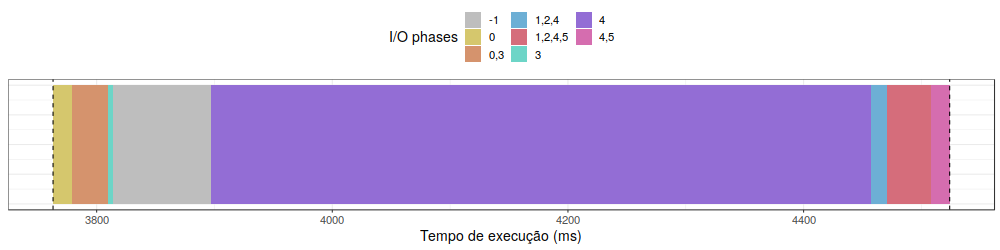
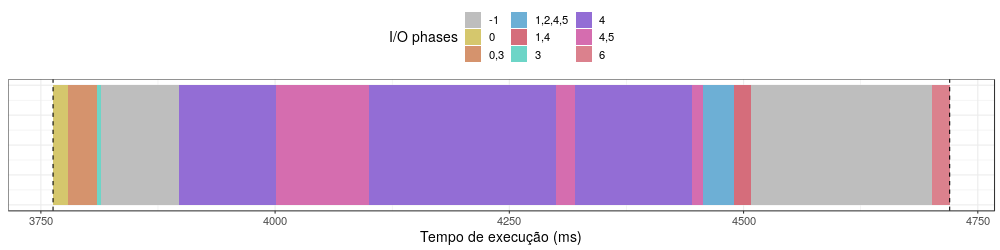
Sync; some problems in create new nodes intervals  Changes to be committed: 	modified:   R/interval_small.png 	modified:   R/saida_final.png 	modified:   R/view_intervals.org 	modified:   data/final.csv 	modified:   data/intervals.small.csv 	modified:   data/jobs.csv 	modified:   data/phases.csv 	mo

diff --git a/src/main.cpp b/src/main.cpp
@@ -64,12 +64,12 @@ void dump_file(int long new_end, vector<Node*>&v){
 	// phase and jobs sep by ,
 	// day 
 
+	char path_save[] = "../data/final.csv";
+
 	if(!first_write){
 		first_write = true;
 		last_end = new_end;
 	}
-
-	char path_save[] = "../data/final.csv";
 
 	if (v[0]->getStart() > last_end){
 		#ifdef DUMP
@@ -187,19 +187,19 @@ int main(int argc, char const *argv[]){
 		start_time = start_time * 1;
 		long int starti = (long int) start;
 
-		start_time = start_time + starti;
+		long int start_ = start_time + starti;
 
 		end = end * 1;
 		// end_time = end_time - epoch_time; 
 		// end_time = end_time * 1000000;
 		long int endi = (long int) end;
-		end_time = start_time + (endi - starti);
+		long int end_ = start_ + (endi - starti);
 
 		#ifdef DUMP
-		cout << "[" << start_time << ", " << end_time << "]" << endl;
+		cout << "[" << start_ << ", " << end_ << "]" << endl;
 		#endif
 
-		no  = new Node(idx_find(info, info_v),idx_find(filename, filename_v),1,start_time,end_time);
+		no  = new Node(idx_find(info, info_v),idx_find(filename, filename_v),1,start_,end_);
 		h->insert(no);
 	}
 
@@ -238,25 +238,33 @@ int main(int argc, char const *argv[]){
 		 	int idx_min = min_find(nodes);
 			if(n_next->getStart() < nodes[idx_min]->getEnd()){
 				dump_file(n_next->getStart(), nodes);	 
-				cout << "novo 1 " << n_next->getStart() << " ; " << nodes[idx_min]->getEnd() << endl;
-		 	 	no  = new Node(n_next->getPhase(), n_next->getJob(), n_next->getDay(), nodes, n_next->getStart(), nodes[idx_min]->getEnd());
-		 	 	h->insert(no);	 	 
+		
+				if (nodes[idx_min]->getEnd() < n_next->getEnd()){
+					cout << "novo 1 " << n_next->getStart() << " ; " << nodes[idx_min]->getEnd() << endl;
+			 	 	no  = new Node(n_next->getPhase(), n_next->getJob(), n_next->getDay(), nodes, n_next->getStart(), nodes[idx_min]->getEnd());
+			 	 	h->insert(no);	
+			 	}else{
+			 		cout << "novo 2 " << n_next->getStart() << " ; " << n_next->getEnd() << endl;
+			 	 	no  = new Node(n_next->getPhase(), n_next->getJob(), n_next->getDay(), nodes, n_next->getStart(), n_next->getEnd());
+			 	 	h->insert(no);	
+			 	} 	 
 			 	if(nodes[idx_min]->getEnd() < n_next->getEnd()){
-			 		cout << "novo 2 " << nodes[idx_min]->getEnd() << " ; " << n_next->getEnd() << endl;
+			 		cout << "novo 3 " << nodes[idx_min]->getEnd() << " ; " << n_next->getEnd() << endl;
 			 	 	no  = new Node(n_next->getPhase(), n_next->getJob(), n_next->getDay(), nodes[idx_min]->getEnd(), n_next->getEnd());
 			 	 	h->insert(no);
+
 			 	 }else{
-			 	 	cout << "novo 3 " << n_next->getEnd() << " ; " << nodes[idx_min]->getEnd() << endl;
+			 	 	cout << "novo 4 " << n_next->getEnd() << " ; " << nodes[idx_min]->getEnd() << endl;
 			 	 	no  = new Node(nodes, n_next->getEnd(), nodes[idx_min]->getEnd());	
 			 	 	h->insert(no);
 			 	 }	
 			}else{
 				cout << "else 1" << endl;
-				h->insert(n_next);
+			 	h->insert(n_next);
 		 		dump_file(nodes[idx_min]->getEnd(), nodes);		 		
 			}
 		}else{
-			cout << "else 3" << endl;
+			cout << "else 2" << endl;
 			nodes.push_back(n_current);
 			dump_file(n_current->getEnd(), nodes);
 		}		 	
